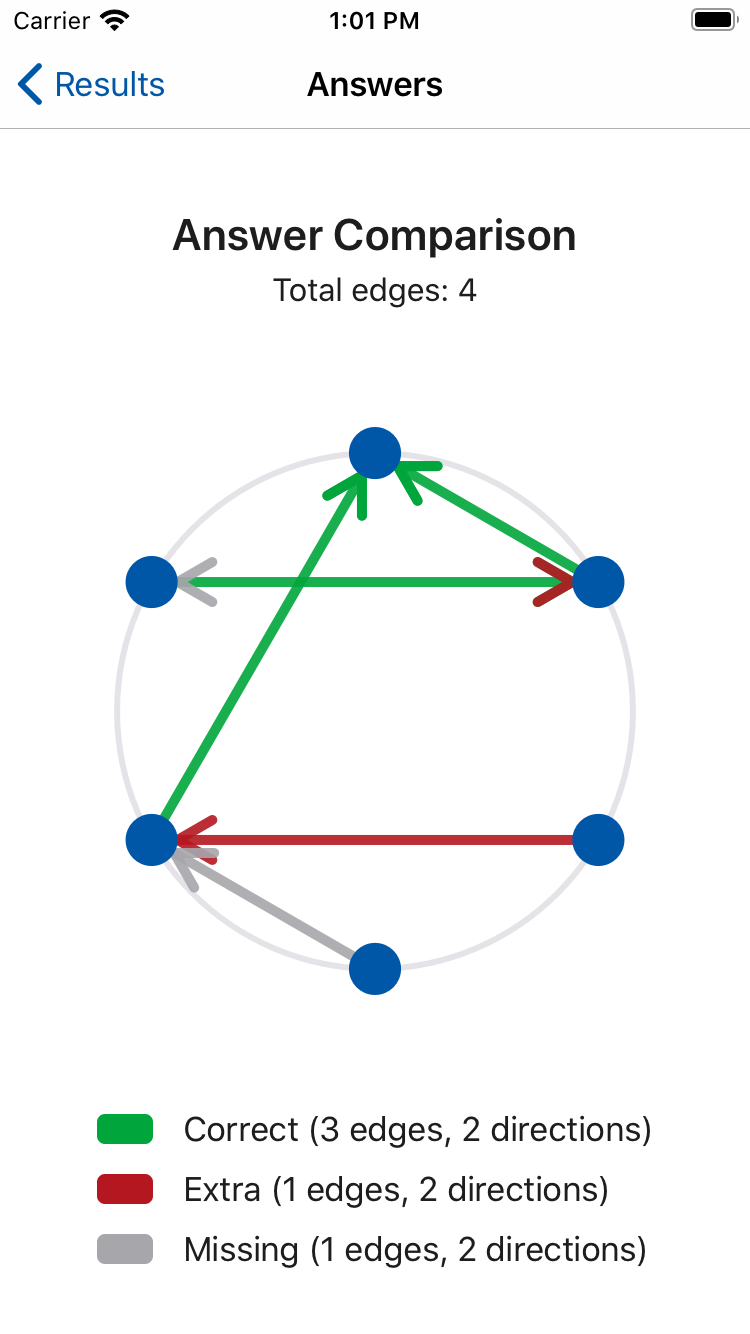
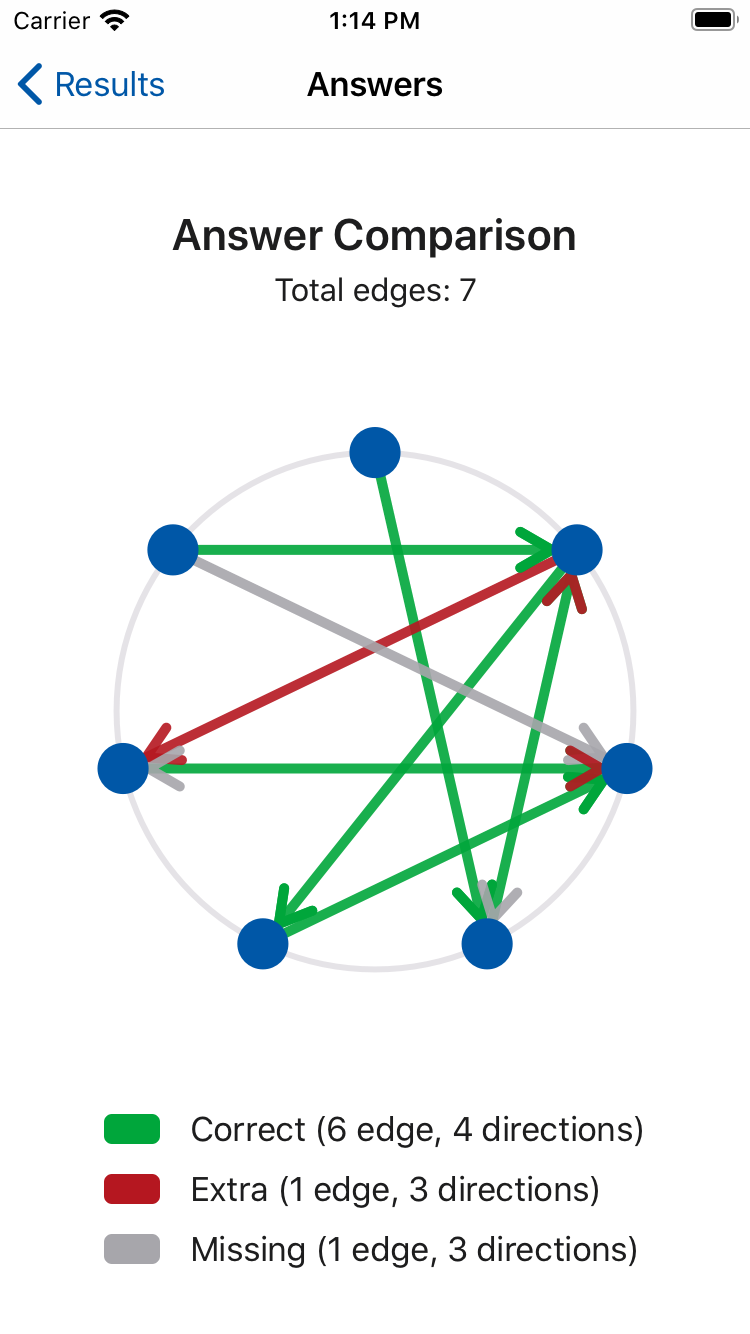
Updated screenshots for directed graphs

diff --git a/Mind Master/Challenges/Spatial memory/GraphUserAnswers.swift b/Mind Master/Challenges/Spatial memory/GraphUserAnswers.swift
@@ -170,7 +170,7 @@ class GraphUserAnswers: UIViewController {
         correctLabel = {
             let label = UILabel()
             if directed {
-                label.text = "Correct (\(correctCount.edges) edges, \(correctCount.directions) directions)"
+                label.text = "Correct (\(correctCount.edges) edge\(incorrectCount.edges == 1 ? "" : "s"), \(correctCount.directions) direction\(correctCount.directions == 1 ? "" : "s"))"
             } else {
                 label.text = "Correct (\(correctCount.edges) edges)"
             }
@@ -204,7 +204,7 @@ class GraphUserAnswers: UIViewController {
         incorrectLabel = {
             let label = UILabel()
             if directed {
-                label.text = "Extra (\(incorrectCount.edges) edges, \(incorrectCount.directions) directions)"
+                label.text = "Extra (\(incorrectCount.edges) edge\(incorrectCount.edges == 1 ? "" : "s"), \(incorrectCount.directions) direction\(incorrectCount.directions == 1 ? "" : "s"))"
             } else {
                 label.text = "Extra (\(incorrectCount.edges) edges)"
             }
@@ -238,7 +238,7 @@ class GraphUserAnswers: UIViewController {
         missingLabel = {
             let label = UILabel()
             if directed {
-                label.text = "Missing (\(absentCount.edges) edges, \(absentCount.directions) directions)"
+                label.text = "Missing (\(absentCount.edges) edge\(absentCount.edges == 1 ? "" : "s"), \(absentCount.directions) direction\(absentCount.directions == 1 ? "" : "s"))"
             } else {
                 label.text = "Missing (\(absentCount.edges) edge)"
             }

diff --git a/Mind Master/Challenges/Spatial memory/RingView.swift b/Mind Master/Challenges/Spatial memory/RingView.swift
@@ -27,7 +27,7 @@ class RingView: UIView {
     }
     
     var wingLength: CGFloat {
-        return max(connectionWidth * 3, 20)
+        return max(connectionWidth * 3, 18)
     }
     
     var wingThickness: CGFloat = 2 {
